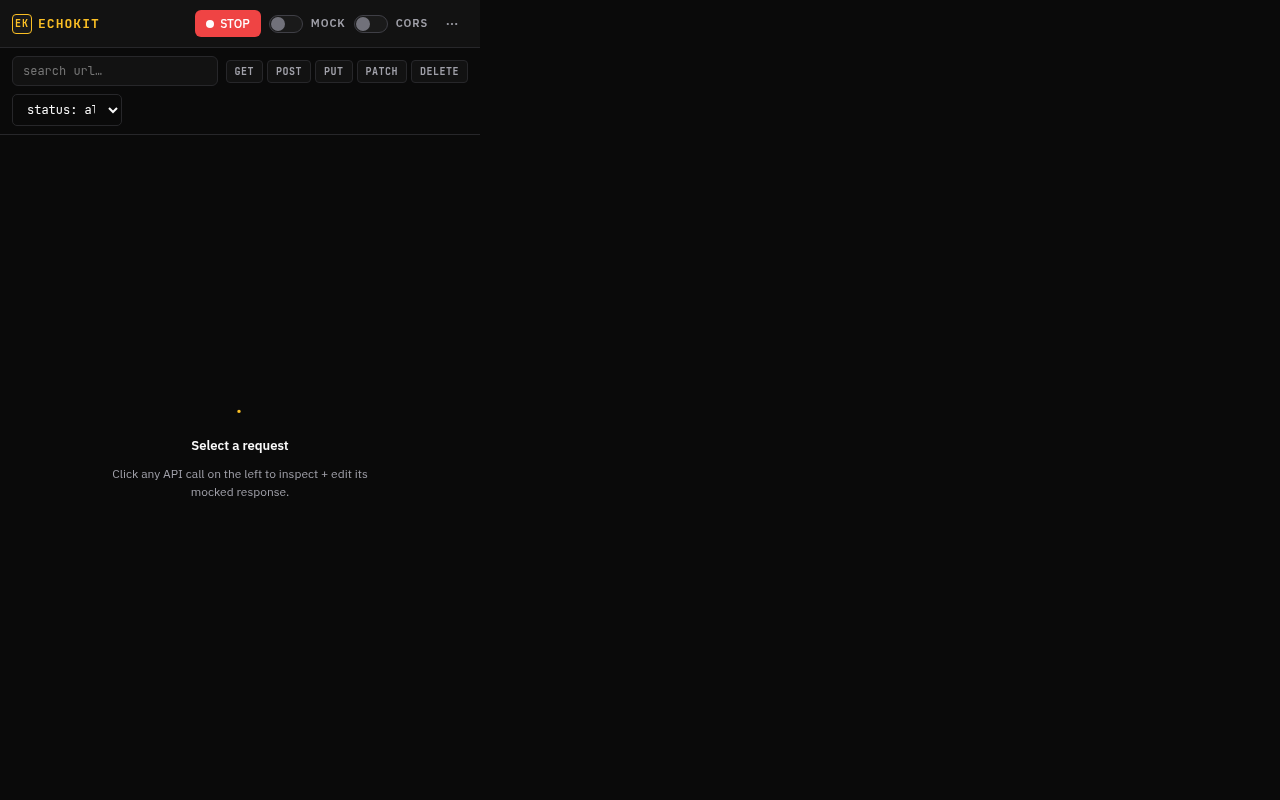
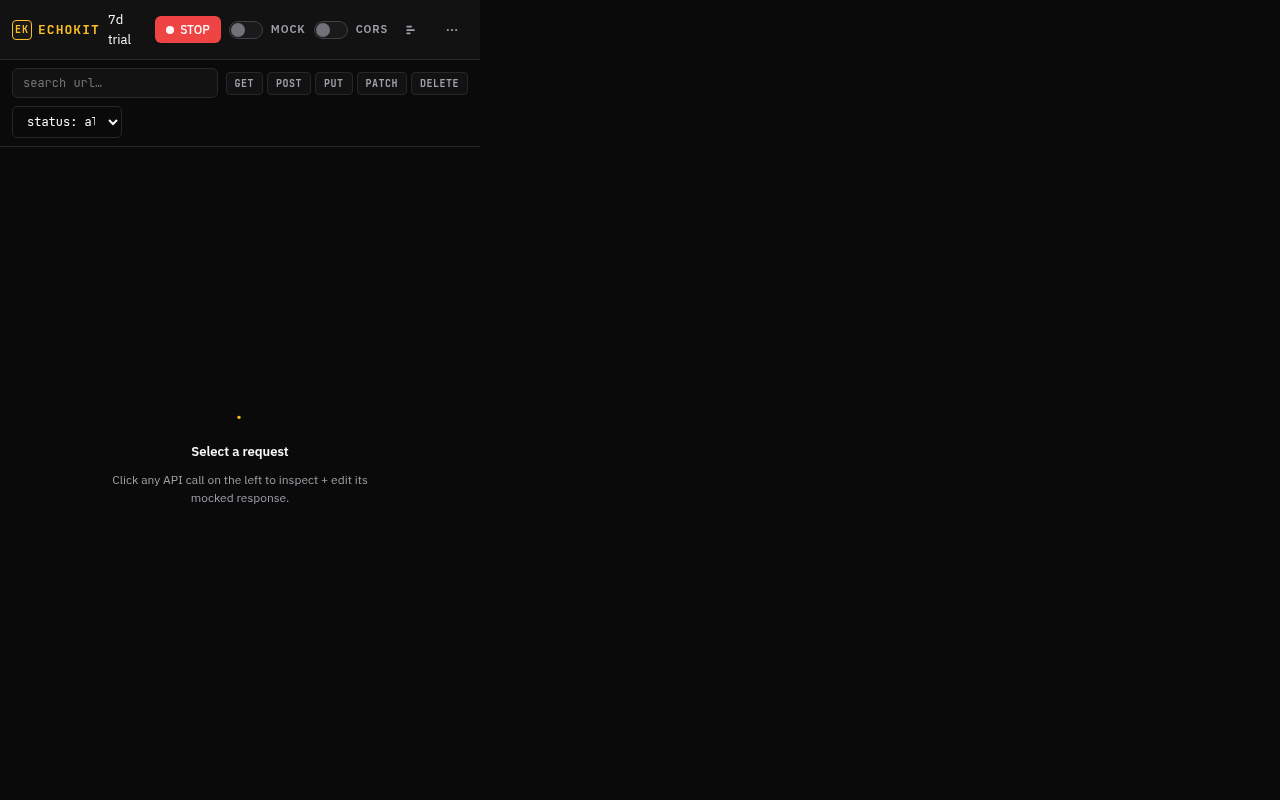
v1.6 — OpenAPI/Swagger import, URL rewrite rules, response transform rules, mock chaining, network waterfall, 7-day Pro trial + 87/87 tests passing

Changed region(s): [[0.0, 0.0, 0.375, 0.125], [0.0938, 0.5312, 0.2812, 0.625], [0.0, 0.0938, 0.0938, 0.1875]]

diff --git a/extension/shared/app.js b/extension/shared/app.js
@@ -833,6 +833,39 @@ function renderDetail(i, conflicts) {
           </div>
         </div>
       </div>
+
+      <div class="ek-section" data-testid="mock-chain-section">
+        <div class="ek-section-head">
+          <span>Mock Chain</span>
+          <span class="ek-subtle" style="font-size:10px">Cycle through responses on each call</span>
+          <div class="ek-row-inline-end">
+            ${(i.mockChain && i.mockChain.length > 0) ? `
+              <span class="ek-subtle" data-testid="mock-chain-cursor">step ${((i.mockChainCursor || 0) % i.mockChain.length) + 1}/${i.mockChain.length}</span>
+              <label class="ek-row-inline" style="gap:4px;margin-left:8px">
+                <input type="checkbox" ${i.mockChainLoop !== false ? 'checked' : ''} data-action="update-chain-loop" data-id="${i.id}" data-testid="chain-loop-toggle"/>
+                <span class="ek-subtle">loop</span>
+              </label>
+              <button class="ek-btn ek-btn-ghost" data-action="reset-chain-cursor" data-id="${i.id}" style="font-size:10px;margin-left:6px" data-testid="chain-reset-btn">Reset cursor</button>
+            ` : ''}
+          </div>
+        </div>
+        <div class="ek-section-body">
+          ${(i.mockChain && i.mockChain.length > 0) ? i.mockChain.map((step, sIdx) => {
+            const active = (((i.mockChainCursor || 0) % i.mockChain.length) === sIdx);
+            return `
+              <div style="border:1px solid ${active ? 'var(--amber)' : 'var(--border)'};border-radius:6px;padding:6px;margin-bottom:6px" data-testid="chain-step-${sIdx}">
+                <div class="ek-row-inline" style="gap:6px;margin-bottom:4px">
+                  <span class="ek-subtle" style="min-width:60px">step ${sIdx + 1}${active ? ' • next' : ''}</span>
+                  <input class="ek-input" type="number" value="${step.status || 200}" data-action="chain-status" data-id="${i.id}" data-step="${sIdx}" style="max-width:80px" data-testid="chain-status-${sIdx}" placeholder="status"/>
+                  <button class="ek-kv-remove ek-row-inline-end" data-action="chain-remove" data-id="${i.id}" data-step="${sIdx}" data-testid="chain-remove-${sIdx}" aria-label="remove">×</button>
+                </div>
+                <textarea class="ek-textarea" style="min-height:50px;font-size:11px" data-action="chain-body" data-id="${i.id}" data-step="${sIdx}" data-testid="chain-body-${sIdx}" placeholder="response body (string or JSON)">${escapeHtml(typeof step.body === 'string' ? step.body : JSON.stringify(step.body || ''))}</textarea>
+              </div>
+            `;
+          }).join('') : '<div class="ek-subtle">No chain steps. Add one to cycle responses on each call.</div>'}
+          <button class="ek-btn ek-btn-ghost" data-action="chain-add" data-id="${i.id}" style="margin-top:4px" data-testid="chain-add-btn">＋ Add chain step</button>
+        </div>
+      </div>
     </div>
   `;
 }
@@ -994,6 +1027,45 @@ function bindEvents() {
     });
     else if (action === 'reset-mock-count') el.addEventListener('click', async () => {
       await BG({ type: 'echokit:interaction:update', id, patch: { mockCallCount: 0 } });
+      await refresh(); render();
+    });
+    else if (action === 'chain-add') el.addEventListener('click', async () => {
+      const curr = state.interactions.find(x => x.id === id);
+      const chain = [...(curr?.mockChain || []), { status: 200, body: '', headers: {} }];
+      await BG({ type: 'echokit:interaction:update', id, patch: { mockChain: chain } });
+      await refresh(); render();
+    });
+    else if (action === 'chain-remove') el.addEventListener('click', async () => {
+      const sIdx = Number(el.getAttribute('data-step'));
+      const curr = state.interactions.find(x => x.id === id);
+      const chain = [...(curr?.mockChain || [])];
+      chain.splice(sIdx, 1);
+      const cursor = chain.length ? Math.min(curr.mockChainCursor || 0, chain.length - 1) : 0;
+      await BG({ type: 'echokit:interaction:update', id, patch: { mockChain: chain.length ? chain : null, mockChainCursor: cursor } });
+      await refresh(); render();
+    });
+    else if (action === 'chain-status') el.addEventListener('change', async (e) => {
+      const sIdx = Number(el.getAttribute('data-step'));
+      const curr = state.interactions.find(x => x.id === id);
+      const chain = [...(curr?.mockChain || [])];
+      chain[sIdx] = { ...(chain[sIdx] || {}), status: Number(e.target.value) || 200 };
+      await BG({ type: 'echokit:interaction:update', id, patch: { mockChain: chain } });
+      await refresh();
+    });
+    else if (action === 'chain-body') el.addEventListener('change', async (e) => {
+      const sIdx = Number(el.getAttribute('data-step'));
+      const curr = state.interactions.find(x => x.id === id);
+      const chain = [...(curr?.mockChain || [])];
+      chain[sIdx] = { ...(chain[sIdx] || {}), body: e.target.value };
+      await BG({ type: 'echokit:interaction:update', id, patch: { mockChain: chain } });
+      await refresh();
+    });
+    else if (action === 'update-chain-loop') el.addEventListener('change', async (e) => {
+      await BG({ type: 'echokit:interaction:update', id, patch: { mockChainLoop: e.target.checked } });
+      await refresh(); render();
+    });
+    else if (action === 'reset-chain-cursor') el.addEventListener('click', async () => {
+      await BG({ type: 'echokit:interaction:update', id, patch: { mockChainCursor: 0 } });
       await refresh(); render();
     });
     else if (action === 'header-add') el.addEventListener('click', async () => {
@@ -1238,6 +1310,55 @@ function showSettingsDialog() {
       </div>
 
       <div class="ek-settings-row">
+        <div style="flex:1">
+          <div class="ek-settings-title">URL Rewrite Rules</div>
+          <div class="ek-settings-hint">Rewrite outgoing URLs before they hit the network. <span class="ek-tag">From</span> can be a substring or a JS regex like <span class="ek-tag">/api\\/v1/g</span>.</div>
+          <div id="ek-rewritelist" style="margin-top:8px" data-testid="rewritelist">
+            ${(s.rewriteRules || []).map((r, idx) => `
+              <div class="ek-kv-row" data-testid="rewrite-row">
+                <input class="ek-input" value="${escapeHtml(r.from || '')}" data-a="rw-from" data-idx="${idx}" placeholder="from (substring or /regex/flags)" data-testid="rewrite-from-${idx}"/>
+                <input class="ek-input" value="${escapeHtml(r.to || '')}" data-a="rw-to" data-idx="${idx}" placeholder="to (replacement)" data-testid="rewrite-to-${idx}"/>
+                <div style="display:flex;gap:6px;align-items:center">
+                  <label class="ek-row-inline" style="gap:4px"><input type="checkbox" ${r.enabled?'checked':''} data-a="rw-toggle" data-idx="${idx}" data-testid="rewrite-toggle-${idx}"/><span class="ek-subtle">${r.enabled?'ON':'off'}</span></label>
+                  <button class="ek-kv-remove" data-a="rw-remove" data-idx="${idx}" data-testid="rewrite-remove-${idx}" aria-label="remove">×</button>
+                </div>
+              </div>
+            `).join('')}
+          </div>
+          <button class="ek-btn ek-btn-ghost" data-a="rw-add" style="margin-top:6px" data-testid="rewrite-add">＋ Add rewrite rule</button>
+        </div>
+      </div>
+
+      <div class="ek-settings-row">
+        <div style="flex:1">
+          <div class="ek-settings-title">Response Transform Rules</div>
+          <div class="ek-settings-hint">Mutate mocked responses on the fly: add/remove headers, replace body, or run a regex over the body.</div>
+          <div id="ek-transformlist" style="margin-top:8px" data-testid="transformlist">
+            ${(s.transformRules || []).map((r, idx) => `
+              <div style="border:1px solid var(--border);border-radius:6px;padding:8px;margin-bottom:6px" data-testid="transform-row">
+                <div class="ek-row-inline" style="gap:6px;margin-bottom:6px">
+                  <input class="ek-input" value="${escapeHtml(r.urlPattern || '')}" data-a="tr-url" data-idx="${idx}" placeholder="url contains… (blank = all)" style="flex:1" data-testid="transform-url-${idx}"/>
+                  <select class="ek-select" data-a="tr-action" data-idx="${idx}" style="max-width:160px" data-testid="transform-action-${idx}">
+                    <option value="add-header" ${r.action==='add-header'?'selected':''}>add header</option>
+                    <option value="remove-header" ${r.action==='remove-header'?'selected':''}>remove header</option>
+                    <option value="set-body" ${r.action==='set-body'?'selected':''}>set body</option>
+                    <option value="regex-replace-body" ${r.action==='regex-replace-body'?'selected':''}>regex replace body</option>
+                  </select>
+                  <label class="ek-row-inline" style="gap:4px"><input type="checkbox" ${r.enabled?'checked':''} data-a="tr-toggle" data-idx="${idx}" data-testid="transform-toggle-${idx}"/><span class="ek-subtle">${r.enabled?'ON':'off'}</span></label>
+                  <button class="ek-kv-remove" data-a="tr-remove" data-idx="${idx}" data-testid="transform-remove-${idx}" aria-label="remove">×</button>
+                </div>
+                <div class="ek-row-inline" style="gap:6px">
+                  <input class="ek-input" value="${escapeHtml(r.key || '')}" data-a="tr-key" data-idx="${idx}" placeholder="${r.action === 'set-body' ? '(unused)' : (r.action === 'regex-replace-body' ? 'regex pattern' : 'header name')}" style="flex:1" data-testid="transform-key-${idx}"/>
+                  <input class="ek-input" value="${escapeHtml(r.value || '')}" data-a="tr-value" data-idx="${idx}" placeholder="${r.action === 'remove-header' ? '(unused)' : (r.action === 'set-body' ? 'new body (string/JSON)' : (r.action === 'regex-replace-body' ? 'replacement' : 'header value'))}" style="flex:2" data-testid="transform-value-${idx}"/>
+                </div>
+              </div>
+            `).join('')}
+          </div>
+          <button class="ek-btn ek-btn-ghost" data-a="tr-add" style="margin-top:6px" data-testid="transform-add">＋ Add transform rule</button>
+        </div>
+      </div>
+
+      <div class="ek-settings-row">
         <div>
           <div class="ek-settings-title">Wipe ALL recordings</div>
           <div class="ek-settings-hint">Delete every recorded interaction across every scope, tab, and domain.</div>
@@ -1315,6 +1436,72 @@ function showSettingsDialog() {
   overlay.querySelector('[data-a="bl-add"]')?.addEventListener('click', async () => {
     const bl = [...(state.settings.blocklist || []), { pattern: '', enabled: true }];
     await BG({ type: 'echokit:settings:update', patch: { blocklist: bl } });
+    await refresh(); reopen();
+  });
+
+  // --- Rewrite rules handlers ---
+  overlay.querySelectorAll('[data-a="rw-from"]').forEach(el => el.addEventListener('change', async (e) => {
+    const idx = Number(el.getAttribute('data-idx'));
+    const rules = [...(state.settings.rewriteRules || [])];
+    rules[idx] = { ...(rules[idx] || {}), from: e.target.value };
+    await BG({ type: 'echokit:settings:update', patch: { rewriteRules: rules } });
+    await refresh();
+  }));
+  overlay.querySelectorAll('[data-a="rw-to"]').forEach(el => el.addEventListener('change', async (e) => {
+    const idx = Number(el.getAttribute('data-idx'));
+    const rules = [...(state.settings.rewriteRules || [])];
+    rules[idx] = { ...(rules[idx] || {}), to: e.target.value };
+    await BG({ type: 'echokit:settings:update', patch: { rewriteRules: rules } });
+    await refresh();
+  }));
+  overlay.querySelectorAll('[data-a="rw-toggle"]').forEach(el => el.addEventListener('change', async (e) => {
+    const idx = Number(el.getAttribute('data-idx'));
+    const rules = [...(state.settings.rewriteRules || [])];
+    rules[idx] = { ...(rules[idx] || {}), enabled: e.target.checked };
+    await BG({ type: 'echokit:settings:update', patch: { rewriteRules: rules } });
+    await refresh(); reopen();
+  }));
+  overlay.querySelectorAll('[data-a="rw-remove"]').forEach(el => el.addEventListener('click', async () => {
+    const idx = Number(el.getAttribute('data-idx'));
+    const rules = [...(state.settings.rewriteRules || [])];
+    rules.splice(idx, 1);
+    await BG({ type: 'echokit:settings:update', patch: { rewriteRules: rules } });
+    await refresh(); reopen();
+  }));
+  overlay.querySelector('[data-a="rw-add"]')?.addEventListener('click', async () => {
+    const rules = [...(state.settings.rewriteRules || []), { from: '', to: '', enabled: true }];
+    await BG({ type: 'echokit:settings:update', patch: { rewriteRules: rules } });
+    await refresh(); reopen();
+  });
+
+  // --- Transform rules handlers ---
+  const trUpdate = async (idx, patch) => {
+    const rules = [...(state.settings.transformRules || [])];
+    rules[idx] = { phase: 'response', ...(rules[idx] || {}), ...patch };
+    await BG({ type: 'echokit:settings:update', patch: { transformRules: rules } });
+    await refresh();
+  };
+  overlay.querySelectorAll('[data-a="tr-url"]').forEach(el => el.addEventListener('change', (e) => trUpdate(Number(el.getAttribute('data-idx')), { urlPattern: e.target.value })));
+  overlay.querySelectorAll('[data-a="tr-key"]').forEach(el => el.addEventListener('change', (e) => trUpdate(Number(el.getAttribute('data-idx')), { key: e.target.value })));
+  overlay.querySelectorAll('[data-a="tr-value"]').forEach(el => el.addEventListener('change', (e) => trUpdate(Number(el.getAttribute('data-idx')), { value: e.target.value })));
+  overlay.querySelectorAll('[data-a="tr-action"]').forEach(el => el.addEventListener('change', async (e) => {
+    await trUpdate(Number(el.getAttribute('data-idx')), { action: e.target.value });
+    reopen();
+  }));
+  overlay.querySelectorAll('[data-a="tr-toggle"]').forEach(el => el.addEventListener('change', async (e) => {
+    await trUpdate(Number(el.getAttribute('data-idx')), { enabled: e.target.checked });
+    reopen();
+  }));
+  overlay.querySelectorAll('[data-a="tr-remove"]').forEach(el => el.addEventListener('click', async () => {
+    const idx = Number(el.getAttribute('data-idx'));
+    const rules = [...(state.settings.transformRules || [])];
+    rules.splice(idx, 1);
+    await BG({ type: 'echokit:settings:update', patch: { transformRules: rules } });
+    await refresh(); reopen();
+  }));
+  overlay.querySelector('[data-a="tr-add"]')?.addEventListener('click', async () => {
+    const rules = [...(state.settings.transformRules || []), { phase: 'response', urlPattern: '', action: 'add-header', key: '', value: '', enabled: true }];
+    await BG({ type: 'echokit:settings:update', patch: { transformRules: rules } });
     await refresh(); reopen();
   });
   // Pre-fill license key input

diff --git a/extension/injected.js b/extension/injected.js
@@ -194,6 +194,9 @@
       if (mock.mockMaxCount != null) {
         mock.mockCallCount = (mock.mockCallCount || 0) + 1;
         emit('mock-hit', { id: mock.id });
+      } else if (mock.hasChain) {
+        // Mock chain: notify background to advance cursor
+        emit('mock-hit', { id: mock.id });
       }
       return mock;
     }

diff --git a/tests/smoke_echokit.py b/tests/smoke_echokit.py
@@ -603,6 +603,123 @@ def main():
                 step('ws_loop_toggle_persists', ws_upd_int is not None and ws_upd_int.get('wsLoop') is True,
                      ws_upd_int)
 
+            # === NEW in v1.6: 7-day trial state in getState ===
+            trial_state = sw_send(sw, {'type': 'echokit:getState', 'tabId': tab_id})
+            step('v16_trial_field_present', 'trial' in trial_state and 'trialDaysLeft' in trial_state, list(trial_state.keys())[:10])
+
+            # === NEW in v1.6: Rewrite rules CRUD via settings:update ===
+            sw_send(sw, {'type': 'echokit:settings:update',
+                         'patch': {'rewriteRules': [{'from': '/api/old', 'to': '/api/new', 'enabled': True}]}})
+            rw_state = sw_send(sw, {'type': 'echokit:getState', 'tabId': tab_id})
+            rw_rules = rw_state.get('settings', {}).get('rewriteRules', [])
+            step('v16_rewrite_rule_persists',
+                 len(rw_rules) == 1 and rw_rules[0].get('from') == '/api/old' and rw_rules[0].get('enabled') is True,
+                 rw_rules)
+            sw_send(sw, {'type': 'echokit:settings:update', 'patch': {'rewriteRules': []}})
+
+            # === NEW in v1.6: Transform rules CRUD via settings:update ===
+            sw_send(sw, {'type': 'echokit:settings:update',
+                         'patch': {'transformRules': [
+                             {'phase': 'response', 'urlPattern': '/api/users',
+                              'action': 'add-header', 'key': 'X-Mocked-By', 'value': 'EchoKit',
+                              'enabled': True}
+                         ]}})
+            tr_state = sw_send(sw, {'type': 'echokit:getState', 'tabId': tab_id})
+            tr_rules = tr_state.get('settings', {}).get('transformRules', [])
+            step('v16_transform_rule_persists',
+                 len(tr_rules) == 1 and tr_rules[0].get('action') == 'add-header' and tr_rules[0].get('key') == 'X-Mocked-By',
+                 tr_rules)
+            sw_send(sw, {'type': 'echokit:settings:update', 'patch': {'transformRules': []}})
+
+            # === NEW in v1.6: OpenAPI / Swagger import ===
+            sw_send(sw, {'type': 'echokit:interactions:clearAll'})
+            openapi_spec = {
+                'openapi': '3.0.0',
+                'info': {'title': 'Demo', 'version': '1.0.0'},
+                'servers': [{'url': 'https://api.example.com'}],
+                'paths': {
+                    '/users': {
+                        'get': {
+                            'summary': 'List users',
+                            'responses': {
+                                '200': {'description': 'ok',
+                                        'content': {'application/json': {'example': {'users': [{'id': 1}]}}}}}}},
+                    '/users/{id}': {
+                        'get': {
+                            'summary': 'Get user',
+                            'responses': {'200': {'description': 'ok',
+                                                  'content': {'application/json': {'example': {'id': 'u1'}}}}}}}
+                }
+            }
+            oas_res = sw_send(sw, {'type': 'echokit:import:openapi', 'data': openapi_spec, 'baseUrl': ''})
+            step('v16_openapi_import_returns_count', oas_res.get('ok') and oas_res.get('imported') == 2, oas_res)
+            sw_send(sw, {'type': 'echokit:settings:update', 'patch': {'scope': 'global'}})
+            oas_state = sw_send(sw, {'type': 'echokit:getState', 'tabId': tab_id})
+            oas_ints = oas_state.get('interactions', [])
+            oas_methods = sorted([(i.get('method'), i.get('url')) for i in oas_ints])
+            step('v16_openapi_creates_interactions',
+                 len(oas_ints) == 2 and any('users' in url for _, url in oas_methods), oas_methods)
+            step('v16_openapi_marks_mockEnabled', all(i.get('mockEnabled') is True for i in oas_ints), oas_ints)
+            sw_send(sw, {'type': 'echokit:import:openapi', 'data': {'foo': 'bar'}, 'baseUrl': ''})
+            bad_oas = sw_send(sw, {'type': 'echokit:import:openapi', 'data': {'foo': 'bar'}, 'baseUrl': ''})
+            step('v16_openapi_invalid_spec_rejected', bad_oas.get('ok') is False, bad_oas)
+
+            # === NEW in v1.6: Mock chain advancement ===
+            sw_send(sw, {'type': 'echokit:interactions:clearAll'})
+            sw_send(sw, {'type': 'echokit:recording:start', 'tabId': tab_id})
+            time.sleep(0.2)
+            page.evaluate("window.doFetch()")
+            time.sleep(0.6)
+            sw_send(sw, {'type': 'echokit:recording:stop', 'tabId': tab_id})
+            ch_state = sw_send(sw, {'type': 'echokit:getState', 'tabId': tab_id})
+            ch_target = next((i for i in ch_state['interactions'] if '/api/users' in i.get('url', '')), None)
+            step('v16_chain_target_recorded', ch_target is not None)
+            if ch_target:
+                # Set up a 2-step chain
+                sw_send(sw, {'type': 'echokit:interaction:update', 'id': ch_target['id'],
+                             'patch': {'mockEnabled': True,
+                                       'mockChain': [{'status': 201, 'body': '{"chain":1}', 'headers': {}},
+                                                     {'status': 202, 'body': '{"chain":2}', 'headers': {}}],
+                                       'mockChainCursor': 0,
+                                       'mockChainLoop': True}})
+                sw_send(sw, {'type': 'echokit:mocking:toggle', 'tabId': tab_id, 'enabled': True})
+                time.sleep(0.2)
+                # Hit it 3 times -> expect cursor advances and loop returns step 1 on hit 3
+                statuses = []
+                bodies = []
+                for _ in range(3):
+                    r = page.evaluate("window.doFetch()")
+                    statuses.append(r.get('status'))
+                    bodies.append(r.get('body'))
+                    time.sleep(0.25)
+                step('v16_chain_step1_first_hit', statuses[0] == 201, f'statuses={statuses}')
+                step('v16_chain_step2_second_hit', statuses[1] == 202, f'statuses={statuses}')
+                step('v16_chain_loops_back_to_step1', statuses[2] == 201, f'statuses={statuses}')
+                ch_after = sw_send(sw, {'type': 'echokit:getState', 'tabId': tab_id})
+                ch_int_after = next((i for i in ch_after['interactions'] if i['id'] == ch_target['id']), None)
+                step('v16_chain_cursor_advanced', (ch_int_after or {}).get('mockChainCursor', 0) >= 3,
+                     ch_int_after.get('mockChainCursor') if ch_int_after else None)
+                sw_send(sw, {'type': 'echokit:mocking:toggle', 'tabId': tab_id, 'enabled': False})
+
+            # === NEW in v1.6: Popup UI checks for v1.6 features ===
+            popup3 = ctx.new_page()
+            popup3.goto(f"chrome-extension://{ext_id}/popup/popup.html")
+            popup3.wait_for_selector('[data-testid="echokit-app"]', timeout=5000)
+            time.sleep(0.4)
+            step('v16_waterfall_toggle_in_header',
+                 popup3.locator('[data-testid="waterfall-toggle-btn"]').count() > 0)
+            popup3.locator('[data-testid="menu-btn"]').click()
+            time.sleep(0.2)
+            step('v16_menu_has_import_openapi',
+                 popup3.locator('[data-testid="menu-import-openapi"]').count() > 0)
+            popup3.locator('[data-testid="menu-settings"]').click()
+            popup3.wait_for_selector('[data-testid="settings-modal"]', timeout=3000)
+            step('v16_settings_has_rewritelist', popup3.locator('[data-testid="rewritelist"]').count() > 0)
+            step('v16_settings_has_transformlist', popup3.locator('[data-testid="transformlist"]').count() > 0)
+            step('v16_settings_has_rewrite_add', popup3.locator('[data-testid="rewrite-add"]').count() > 0)
+            step('v16_settings_has_transform_add', popup3.locator('[data-testid="transform-add"]').count() > 0)
+            popup3.close()
+
             # Screenshot for visual sanity
             popup.screenshot(path='/app/echokit-popup-v15.png')
             print('saved /app/echokit-popup-v15.png')
